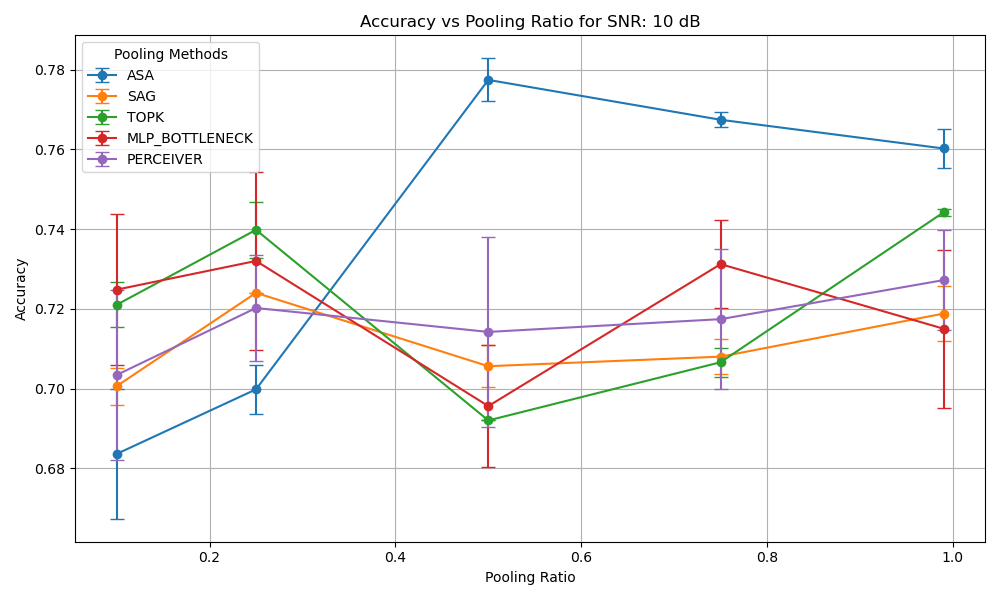
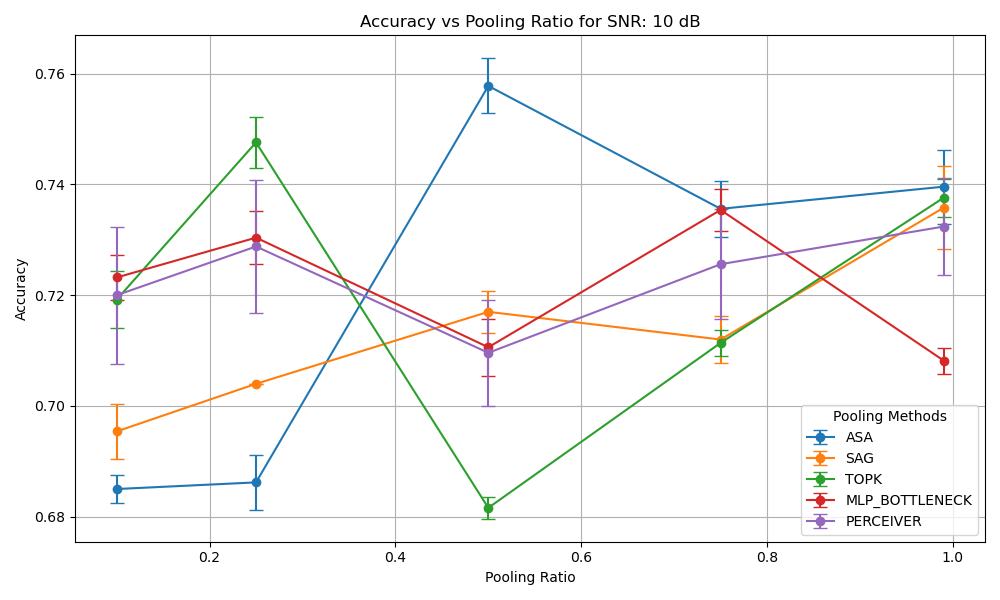
new plots without noise

diff --git a/main.py b/main.py
@@ -392,72 +392,6 @@ def compare_poolings_fixed_snr(config: DictConfig):
 
 
 
-# for fixed pooling ratio in validation, compare different SNR values
-
-# def compare_snrs(config: DictConfig, pool_ratio):
-
-#     config.pooling.pooling_ratio = pool_ratio
-
-#     results = {}
-
-#     for pool_method in config.exp.pool_methods: 
-
-#         config.pooling.pooling_type = pool_method
-
-#         method_accuracies = []
-#         method_std = []
-
-#         for snr_value in config.exp.snr_values:
-
-#             config.my_model.channel.snr_db = snr_value
-#             trainer, model, datamodule = setup_training(config)
-
-#             trial_accuracies = []
-
-#             for _ in range(config.exp.num_trials):
-
-#                 test_result = trainer.validate(model, datamodule)
-#                 trial_accuracies.append(test_result[0]['val_acc'])
-
-#             method_accuracies.append(np.mean(trial_accuracies))
-#             method_std.append(np.std(trial_accuracies))
-
-#         results[pool_method] = {
-#             "accuracies": method_accuracies,
-#             "std": method_std
-#         }
-
-#     plot_results_snr(results, config.exp.snr_values, config)
-
-
-# def plot_results_snr(results, snr_values, config):
-#     plt.figure(figsize=(10, 6))
-#     for pool_method, results in results.items():
-#         accuracies = results["accuracies"]
-#         std_dev = results["std"]
-#         plt.errorbar(snr_values, accuracies, yerr=std_dev, label=f"{pool_method.upper()}", capsize=5, marker='o')
-
-#     plt.title(f"Accuracy vs SNR for Different Pooling Methods. Fixed Pooling Ratio {config.pooling.pooling_ratio}")
-#     plt.xlabel("SNR (dB)")
-#     plt.ylabel("Accuracy")
-#     plt.legend(title="Pooling Methods")
-#     plt.grid(True)
-#     plt.tight_layout()
-
-# @hydra.main(version_base=None, config_path="conf", config_name="config")
-# def compare_poolings_fixed_poolingratio(config: DictConfig):
-#     save_dir = "compare_poolings_snr" 
-#     os.makedirs(save_dir, exist_ok=True)  
-
-#     for pool_ratio in config.exp.pooling_ratios:
-#         print(f"Running experiment with Pooling Ratio: {pool_ratio}")
-#         compare_snrs(config, pool_ratio) 
-#         filename = os.path.join(save_dir, f"accuracy_vs_snr_pooling_ratio_{pool_ratio}_INT.png")
-#         plt.savefig(filename)
-#         plt.close() 
-#         print(f"Plot saved to {filename}")
-
-
 def save_results(results, filename):
     with open(filename, 'wb') as f:
         pickle.dump(results, f)
@@ -476,7 +410,7 @@ def compare_poolings(config: DictConfig, trainer, snr, model, datamodule, pool_m
     """
     Compare model validation performance for a fixed SNR value and different pooling methods and ratios.
     """
-    config.my_model.channel.snr_db = snr
+    model.snr_db = snr
 
     trial_accuracies = []
 
@@ -539,13 +473,8 @@ def compare_poolings_fixed_snr(config: DictConfig):
     save_results(results, results_file)
     plot_results_pool_per_snr(results, config.exp.pooling_ratios, config)
     plot_results_pool_per_ratio(results, config.exp.snr_values, config)
-    
-    # # Save the plot
-    # filename = os.path.join(save_dir, f"accuracy_vs_pooling_ratio_snr_{snr_value}.png")
-    # plt.savefig(filename)
-    # plt.close()  # Close the plot to avoid overlap
 
-    print(f"Plots saved to {save_dir}")
+    print(f"Results saved to {save_dir}")
 
 
 def plot_results_pool_per_ratio(results, snr_values, config):
@@ -580,7 +509,7 @@ def plot_results_pool_per_ratio(results, snr_values, config):
         plt.tight_layout()
 
         # Save the plot as a PNG file
-        save_dir = "comparison_plots/without_noise/compare_poolings_ratio_plots"
+        save_dir = "comparison_plots/with_noise/compare_poolings_ratio_plots"
         os.makedirs(save_dir, exist_ok=True)
         filename = os.path.join(save_dir, f"accuracy_vs_snr_ratio_{pool_ratio}.png")
         plt.savefig(filename)
@@ -622,7 +551,7 @@ def plot_results_pool_per_snr(results, pooling_ratios, config):
         plt.tight_layout()
 
         # Save the plot as a PNG file
-        save_dir = "comparison_plots/without_noise/compare_poolings_snr_plots"
+        save_dir = "comparison_plots/with_noise/compare_poolings_snr_plots"
         os.makedirs(save_dir, exist_ok=True)
         filename = os.path.join(save_dir, f"accuracy_vs_pooling_ratio_snr_{snr_value}.png")
         plt.savefig(filename)
